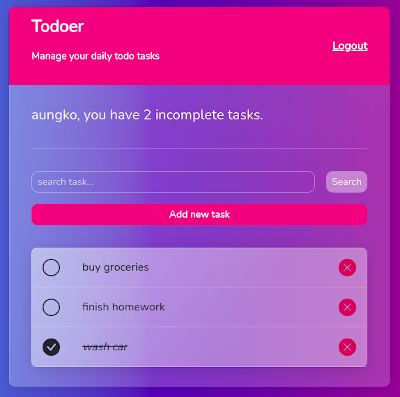
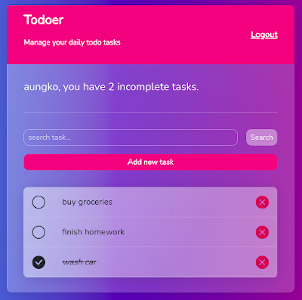
updated demo images and live demo url

diff --git a/README.md b/README.md
@@ -7,7 +7,7 @@ Simple but fully functional, built with Django 3.2 and Bootstrap for UI.
 ![Login](/demo-images/01_login.png)![Task list](/demo-images/02_task_list.png)![Create Task](/demo-images/03_create_task.png)
 
 ## Live Demo
-https://todoer.herokuapp.com
+https://todoer-demo.herokuapp.com/
 
 
 ## Download & run locally
